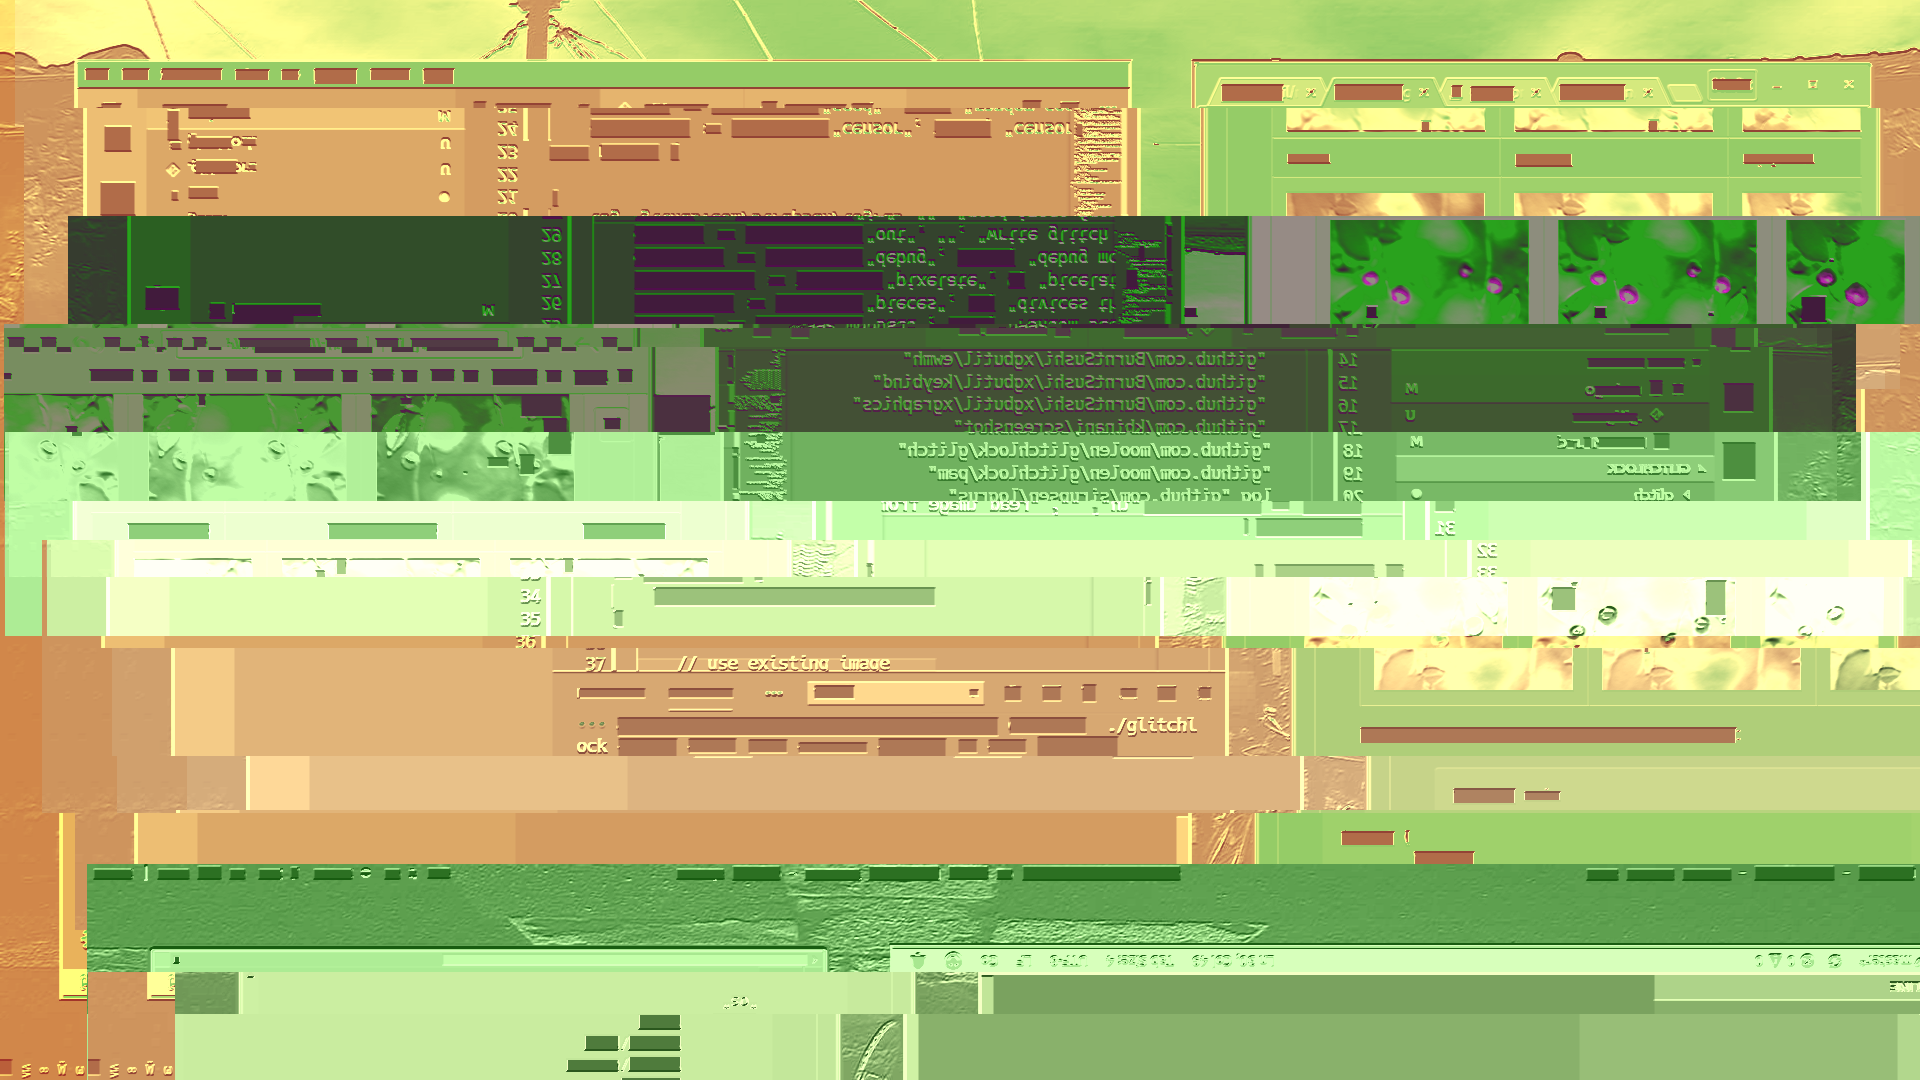
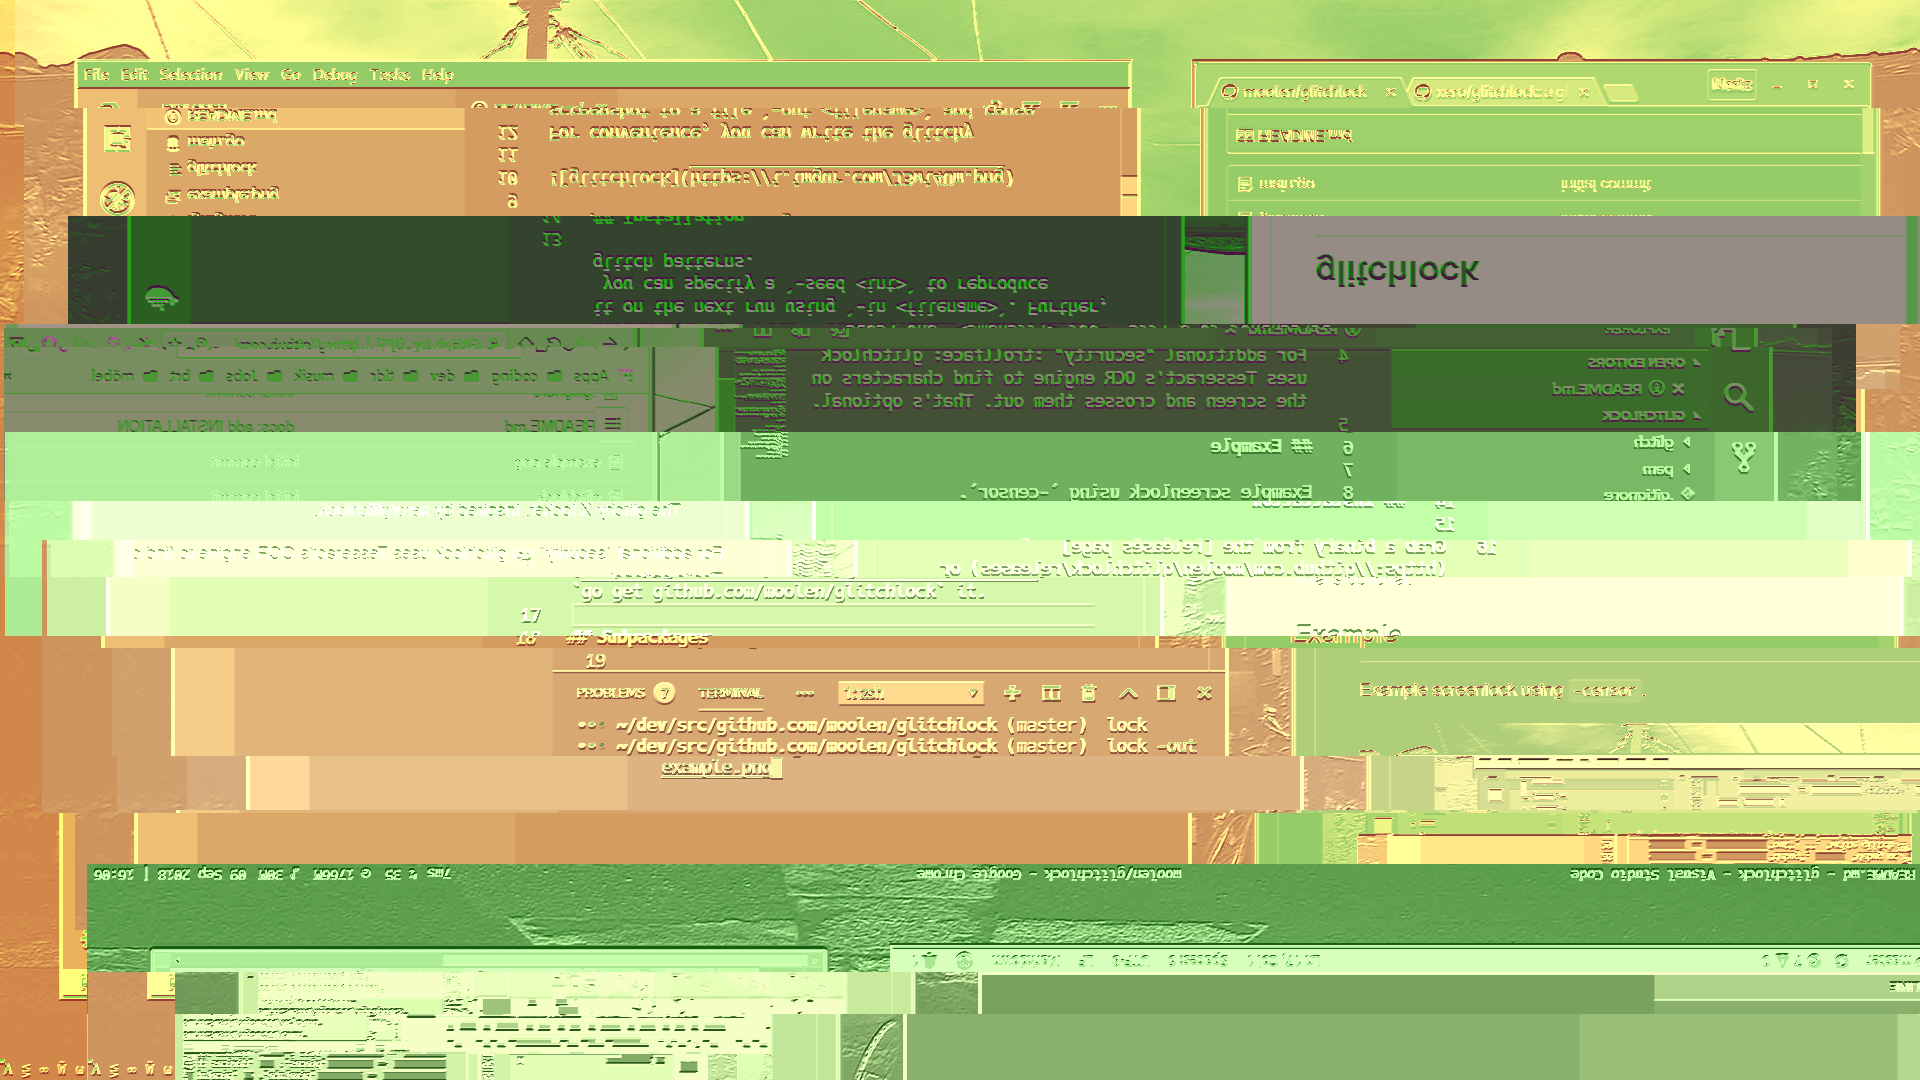
docs: update example lockscreen

diff --git a/README.md b/README.md
@@ -7,7 +7,7 @@ For additional "security" :trollface: glitchlock uses Tesseract's OCR engine to 
 
 Example screenlock using `-censor`.
 
-![glitchlock](https://i.imgur.com/J3wi4Um.png)
+![glitchlock](https://i.imgur.com/lMBlvMo.png)
 
 For convenience, you can write the glitchy screenshot to a file `-out <filename>` and reuse it on the next run using `-in <filename>`. Further, you can specify a `-seed <int>` to reproduce glitch patterns.
 
